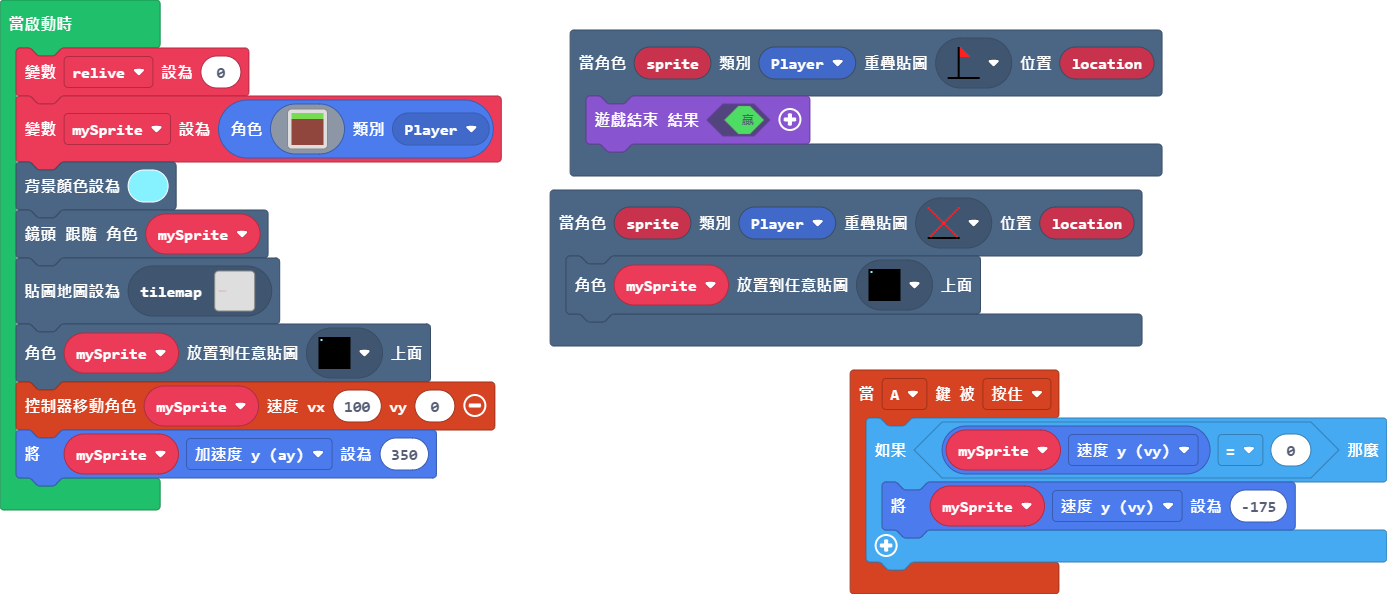
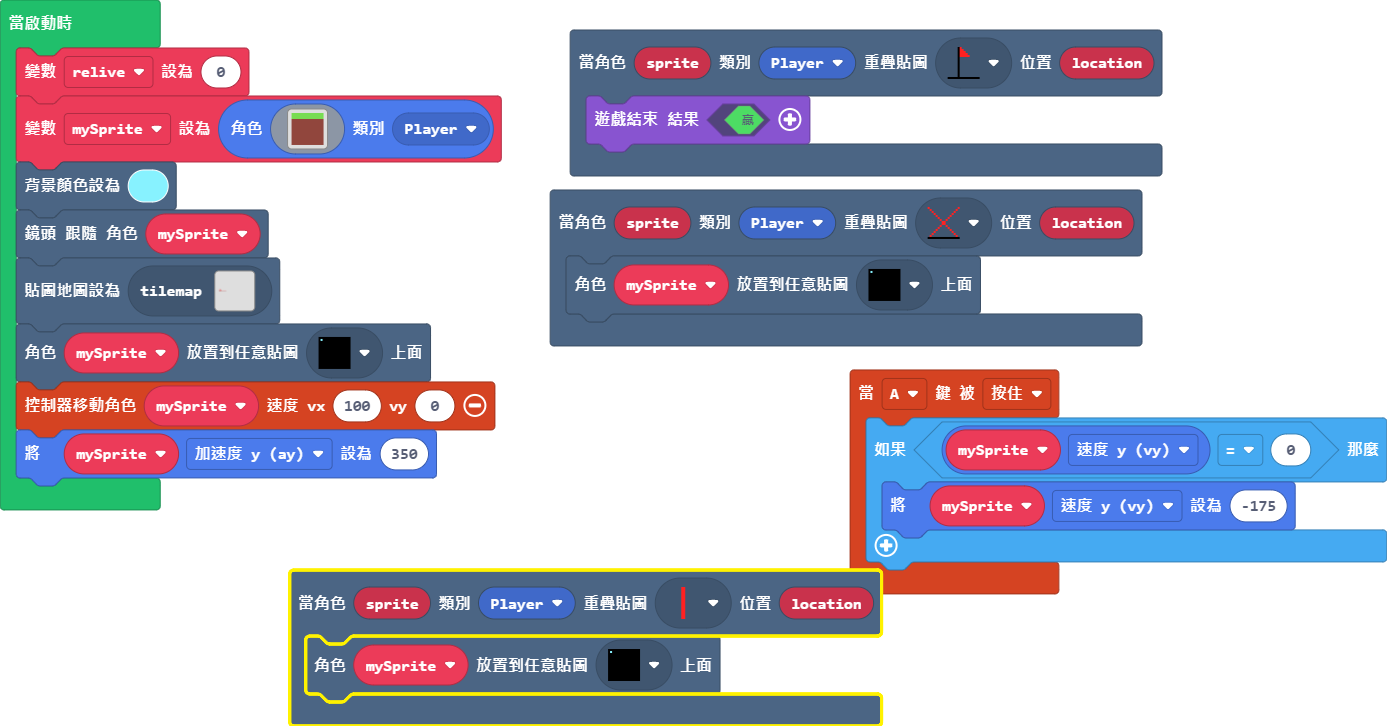
更新 main.blocks, main.ts, tilemap.g.jres, tilemap.g.ts

diff --git a/tilemap.g.ts b/tilemap.g.ts
@@ -10,11 +10,13 @@ namespace myTiles {
     export const tile3 = image.ofBuffer(hex``);
     //% fixedInstance jres blockIdentity=images._tile
     export const tile4 = image.ofBuffer(hex``);
+    //% fixedInstance jres blockIdentity=images._tile
+    export const tile5 = image.ofBuffer(hex``);
 
     helpers._registerFactory("tilemap", function(name: string) {
         switch(helpers.stringTrim(name)) {
             case "遊戲關卡":
[2 lines of base64/hex data omitted]
 ...............................................................................................................................................................................................................................................................
 ...............................................................................................................................................................................................................................................................
 ...............................................................................................................................................................................................................................................................
@@ -29,9 +31,9 @@ namespace myTiles {
 ...............................................................................................................................................................................................................................................................
 ...............................................................................................................................................................................................................................................................
 ....2..........................................................................................................................................................................................................................................................
-22222..........................................................................................................................................................................................................................................................
+22222222222222222222...........................................................................................................................................................................................................................................
 ...............................................................................................................................................................................................................................................................
-`, [myTiles.transparency16,myTiles.tile1,myTiles.tile2,myTiles.tile3,myTiles.tile4], TileScale.Sixteen);
+`, [myTiles.transparency16,myTiles.tile1,myTiles.tile2,myTiles.tile3,myTiles.tile4,myTiles.tile5], TileScale.Sixteen);
         }
         return null;
     })
@@ -47,6 +49,8 @@ namespace myTiles {
             case "tile3":return tile3;
             case "終點":
             case "tile4":return tile4;
+            case "我的貼圖":
+            case "tile5":return tile5;
         }
         return null;
     })

diff --git a/main.ts b/main.ts
@@ -6,6 +6,9 @@ controller.A.onEvent(ControllerButtonEvent.Pressed, function () {
 scene.onOverlapTile(SpriteKind.Player, assets.tile`終點`, function (sprite, location) {
     game.over(true)
 })
+scene.onOverlapTile(SpriteKind.Player, assets.tile`我的貼圖`, function (sprite, location) {
+    tiles.placeOnRandomTile(mySprite, assets.tile`復活點1`)
+})
 scene.onOverlapTile(SpriteKind.Player, assets.tile`死亡點`, function (sprite, location) {
     tiles.placeOnRandomTile(mySprite, assets.tile`復活點1`)
 })
